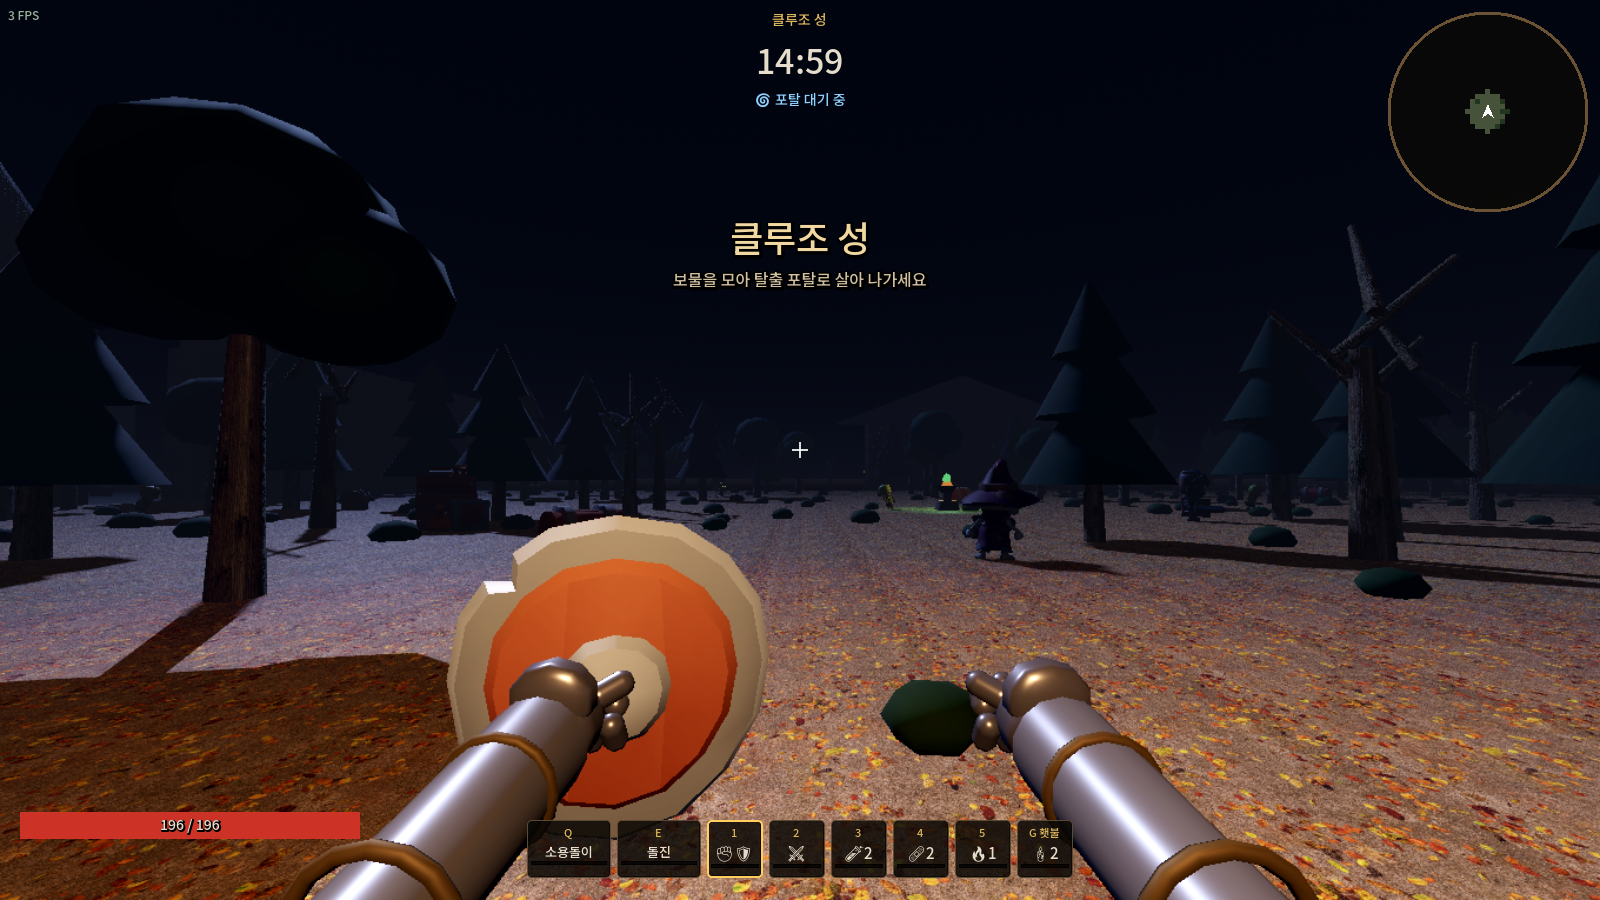
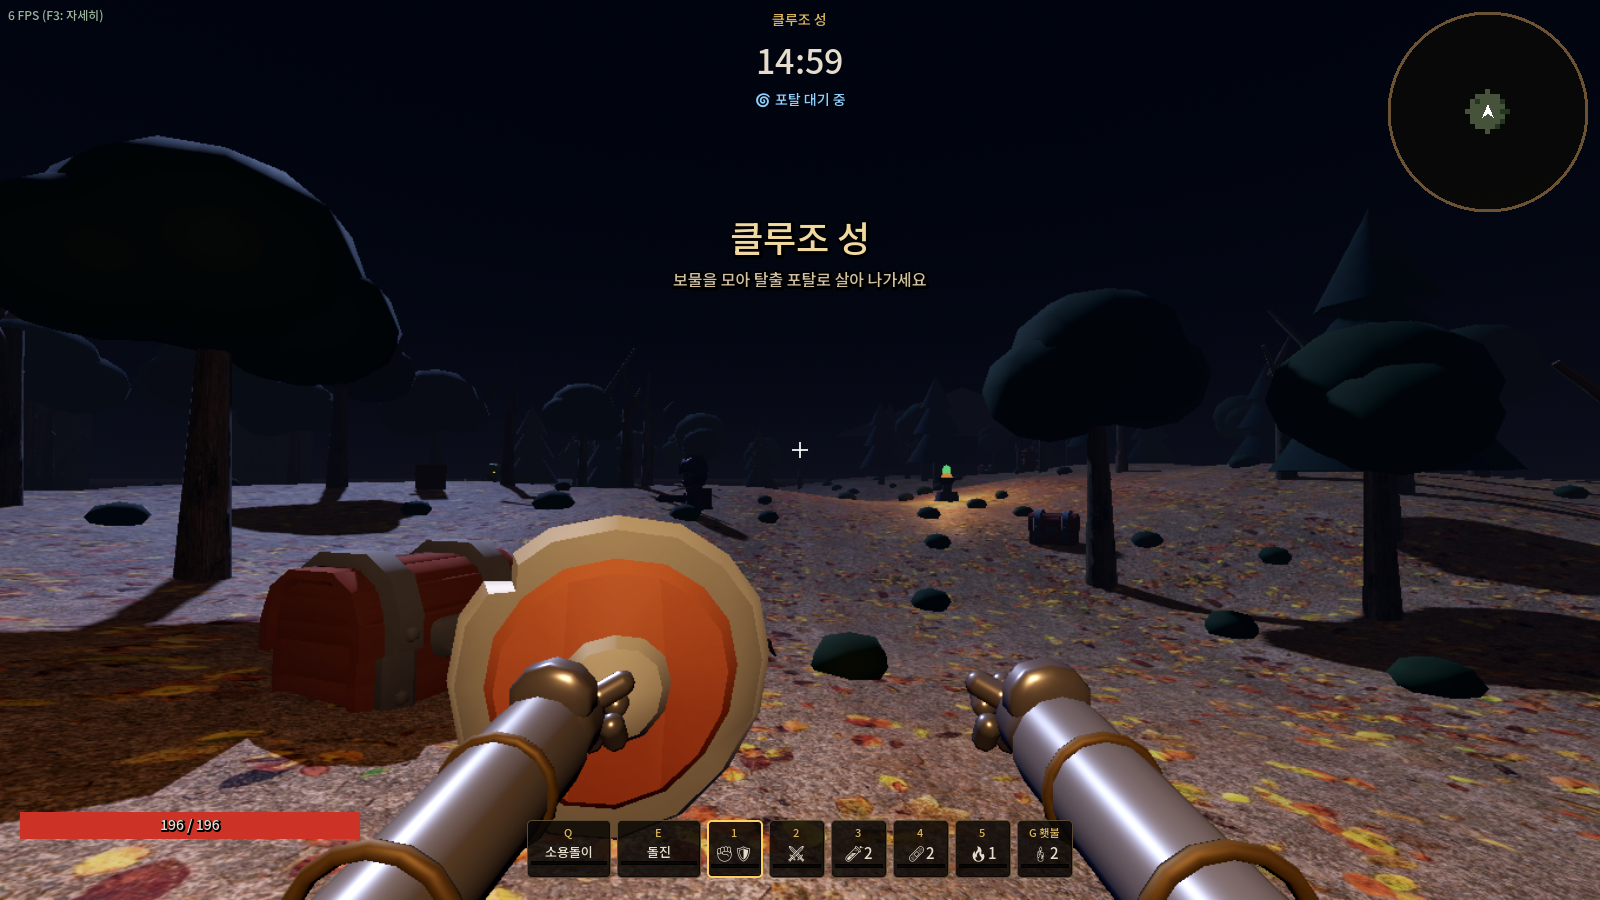
숲 언덕 지형 · 번개 조준점 수정 · 몬스터 밀도 절반 · 사망 시 기본 회색 장비 · F3 성능 표시
- 숲: 타일 모서리 높이맵(최고 약 5m), 건물·성 안 근처는 평평하게, 휘어진 지면 메시
  캐릭터·몬스터·상자·떨어진 물건·투사체·플라스크·조준점이 지면 높이를 따름
  (야외에서 투사체가 보이지 않는 천장에 걸리던 문제도 수정)
- 번개 지팡이 조준점: 나무/기둥 칸 전체가 아니라 줄기에서만 막힘, 적·천장·지면에서 멈춤
  (숲에서 원이 발 앞에 붙던 문제) - 미리보기 원과 실제 낙뢰 지점은 같은 계산
- 몬스터 밀도 약 절반 (넓이당 수 감소, 야외는 더 드문드문, 일부 방 비움)
- 던전에서 모두 잃으면 기본 회색(0등급 '낡음') 무기·방어구 장착, 0등급 이름/색 회색으로
- F3: CPU 게임 로직 / CPU 그리기 준비 / GPU 시간·드로우콜·삼각형 표시
- 내 주변 빛 그림자는 '높음'에서만 (움직이는 점광원 그림자는 매우 무거움)

Claude-Session: https://claude.ai/code/session_01MLHGTdV1vHfDgiTBh1EFcA

diff --git a/README.md b/README.md
@@ -119,7 +119,9 @@
   마나 바는 칸으로 나뉘어 있고, 레이저 한 번은 아주 조금, 마지막 폭발까지 쓰면 **딱 1칸**이 줄어듭니다. 마나는 쓰지 않을 때만(마지막 사용 1.5초 뒤부터) 천천히 재생됩니다.
 - **마나 = 지팡이/오브에 장전된 양** (총알처럼): 던전에 가지고 들어간 무기는 가득 차 있고, 던전 안에서 새로 낀 지팡이는 0부터 재생됩니다. 세트를 바꿔도 무기마다 남은 마나가 따로 유지됩니다. **Q/E 스킬은 마나를 쓰지 않습니다.**
 - **번개 지팡이**: 조준한 바닥에 번개가 떨어질 **원이 표시**되고, 좌클릭하면 그 자리에 번개가 떨어집니다.
-- **성능**: 메뉴(Esc) → **프레임**에서 화면 동기화를 고를 수 있습니다. 기본은 적응형 VSync(모니터 주사율까지, 한 프레임이 늦어도 30fps로 뚝 떨어지지 않음). 플레이어에게서 45m 넘게 떨어진 몬스터·AI는 가끔만 갱신하고, 지형은 32m 구역 단위로 화면 밖·85m 밖을 그리지 않습니다. 측정: `--cpuprobe <맵>`(게임 로직), `--perfprobe <맵>`(그리기).
+- **지형**: 클루조 성의 숲은 완만한 언덕(최고 약 5m)이고, 성·성당 근처와 성 안은 평지입니다. 캐릭터·몬스터·상자·투사체·번개 지점이 모두 지면 높이를 따릅니다.
+- **잃었을 때**: 던전에서 죽어 모든 걸 잃어도 기본 회색(0등급 '낡음') 무기·방어구가 장착된 상태로 돌아옵니다.
+- **성능**: 메뉴(Esc) → **프레임**에서 화면 동기화를 고를 수 있습니다. 기본은 적응형 VSync(모니터 주사율까지, 한 프레임이 늦어도 30fps로 뚝 떨어지지 않음). **F3**: FPS와 함께 게임 로직(CPU)·그리기 준비(CPU)·그리기(GPU) 시간, 드로우콜, 삼각형 수 표시. 플레이어에게서 45m 넘게 떨어진 몬스터·AI는 가끔만 갱신하고, 지형은 32m 구역 단위로 화면 밖·85m 밖을 그리지 않습니다. 측정: `--cpuprobe <맵>`(게임 로직), `--perfprobe <맵>`(그리기).
 - **그래픽**: 1인칭 팔은 직업 옷/갑옷 소매 + 장갑 낀 손(손가락으로 손잡이를 쥠). 벽·바닥·천장·숲 바닥·안뜰·성당 대리석·지붕·나무껍질·나무·바위는 **Poly Haven의 사진 기반 재질(CC0)**을 씁니다 (`godot/assets/textures/<자리>/`, `tools/fetch_textures.py`로 다시 받거나 바꿀 수 있음, 출처는 `assets/textures/LICENSE.txt`). 폴더가 없으면 절차적 텍스처로 돌아갑니다.
 - **플라스크**: 체력 물약을 뺀 모든 플라스크는 **재사용 대기 20초를 공유**합니다.
   - 마시기(좌클릭 → 마시는 동작이 끝난 뒤 효과): **체력 물약** 3초에 걸쳐 회복 · **방어 플라스크** 12초 동안 피해 60을 막는 보호막 · **미믹 플라스크** 상자로 변신(아주 느리게 이동 가능, 몬스터가 알아채지 못함, 공격받거나 우클릭하면 풀림).
